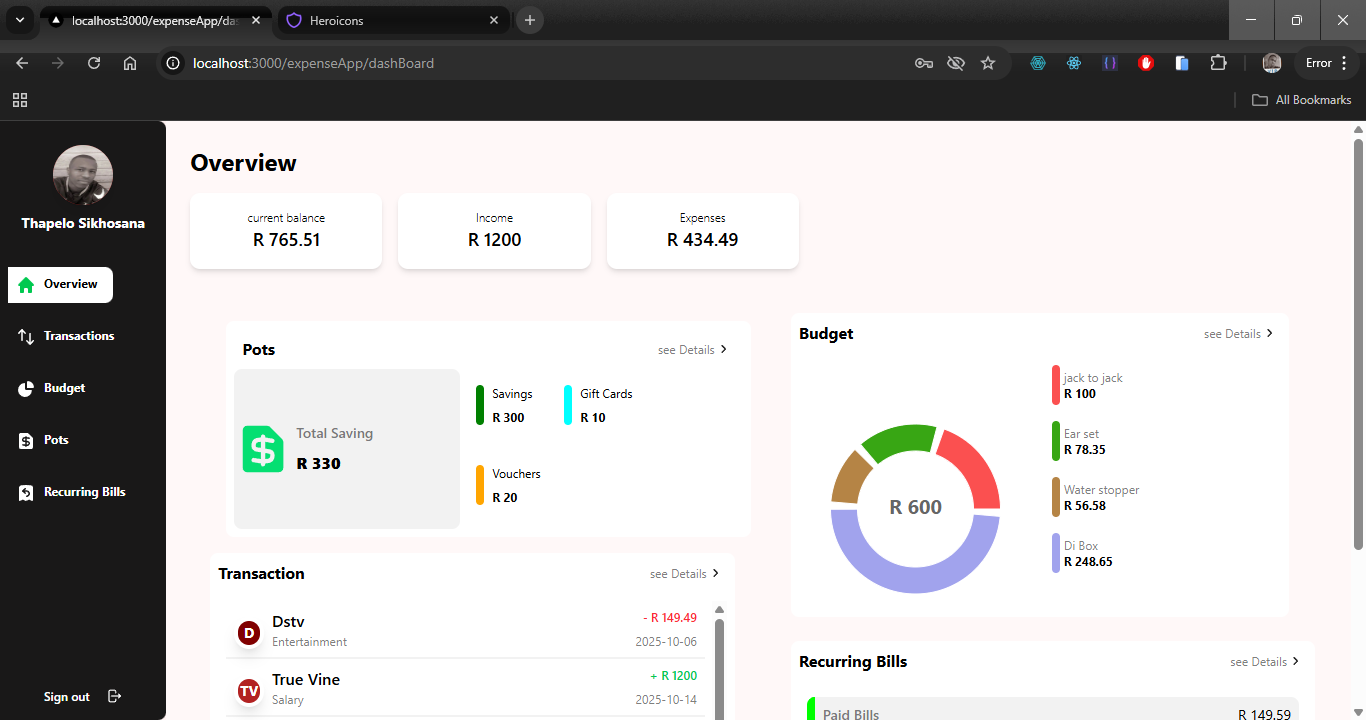
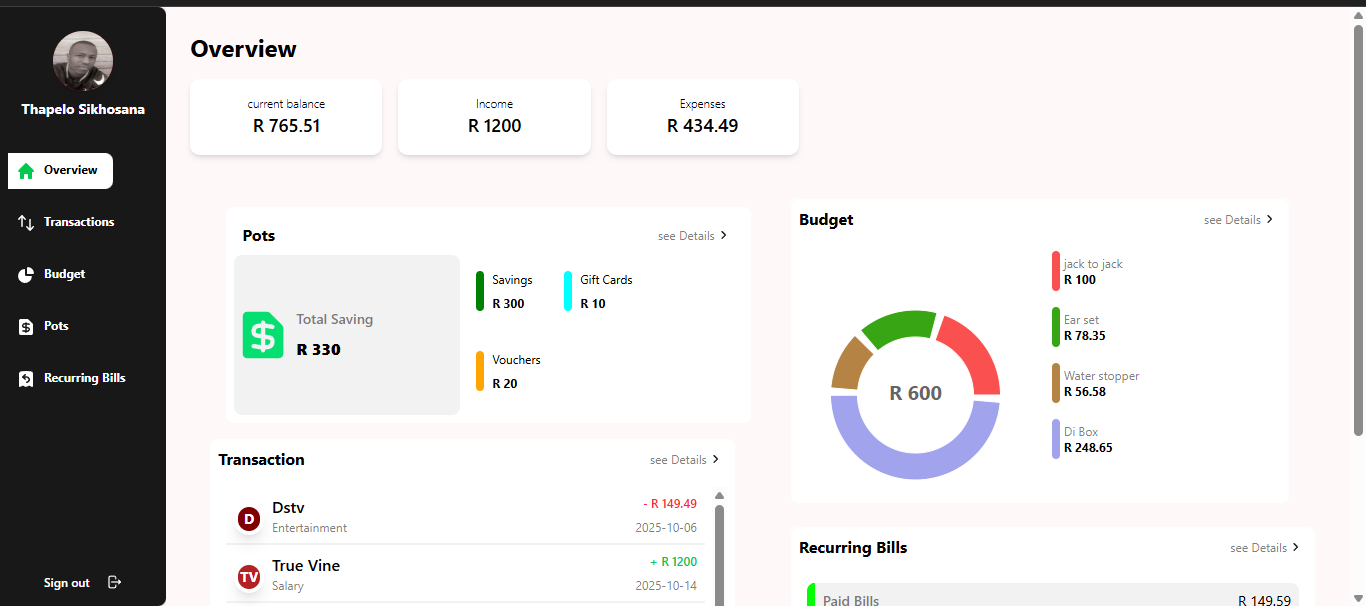
adding new images

diff --git a/src/components/projects/projectCards.tsx b/src/components/projects/projectCards.tsx
@@ -20,76 +20,83 @@ export default function ProjectCard({
   projectDescription,
   projectLink,
   projectItems,
-  projectRevere
+  projectRevere,
 }: PROPS) {
-
   const imageRef = useRef<gsap.core.Timeline | null>(null);
   const headerRef = useRef<gsap.core.Timeline | null>(null);
   const describeRef = useRef<gsap.core.Timeline | null>(null);
 
   const imageElementRef = useRef<HTMLImageElement | null>(null);
-  const paragraphRef = useRef<HTMLParagraphElement>(null)
+  const paragraphRef = useRef<HTMLParagraphElement>(null);
 
   // words animation
-  useGSAP(()=>{
-    gsap.registerPlugin(SplitText)
+  useGSAP(() => {
+    gsap.registerPlugin(SplitText);
 
-    const headerSplitter = SplitText.create(".header-char", {type: "chars"})
-    const describeSplitter = SplitText.create(paragraphRef.current, {type: "words"})
+    const headerSplitter = SplitText.create(".header-char", { type: "chars" });
+    const describeSplitter = SplitText.create(paragraphRef.current, {
+      type: "words",
+    });
 
-    headerRef.current = gsap.timeline({pause: true}).from(headerSplitter.chars, {
-      y: -90,
-      stagger: 0.05,
-      opacity: 0.1,
-      duration: 0.2
-    })
+    headerRef.current = gsap
+      .timeline({ pause: true })
+      .from(headerSplitter.chars, {
+        y: -90,
+        stagger: 0.05,
+        opacity: 0.1,
+        duration: 0.2,
+      });
 
-    describeRef.current = gsap.timeline({pause: true}).from(describeSplitter.words, {
-      opacity: 0.05,
-      stagger: 0.07,
-      duration: 0.05,
-      ease: "sine.inOut"
-    })
+    describeRef.current = gsap
+      .timeline({ pause: true })
+      .from(describeSplitter.words, {
+        opacity: 0.05,
+        stagger: 0.07,
+        duration: 0.05,
+        ease: "sine.inOut",
+      });
 
-    imageRef.current = gsap.timeline({pause: true}).from(imageElementRef.current,{
-      stagger: 0.4,
-      scale: 0.5,
-      opacity: 0.2,
-      duration: 0.5,
-    })
-  })
+    imageRef.current = gsap
+      .timeline({ pause: true })
+      .from(imageElementRef.current, {
+        stagger: 0.4,
+        scale: 0.5,
+        opacity: 0.2,
+        duration: 0.5,
+      });
+  });
 
-  useEffect(()=>{
-  const observerOptions = {
-  root: null,
-  threshold: 1.0
-};
+  useEffect(() => {
+    const observerOptions = {
+      root: null,
+      threshold: 1.0,
+    };
 
-const observer = new IntersectionObserver(([entries]) => {
-  if(!imageRef.current || !headerRef.current || !describeRef.current) return
-  if (entries.isIntersecting && entries.intersectionRatio === 1) {
-    imageRef.current.play()
-    headerRef.current.play()
-    describeRef.current.play()
-  }
-  else {
-    imageRef.current.reverse()
-    headerRef.current.reverse()
-    describeRef.current?.reverse()
-  }
-      
-}, observerOptions);
+    const observer = new IntersectionObserver(([entries]) => {
+      if (!imageRef.current || !headerRef.current || !describeRef.current)
+        return;
+      if (entries.isIntersecting && entries.intersectionRatio === 1) {
+        imageRef.current.play();
+        headerRef.current.play();
+        describeRef.current.play();
+      } else {
+        imageRef.current.reverse();
+        headerRef.current.reverse();
+        describeRef.current?.reverse();
+      }
+    }, observerOptions);
 
-const targetElement = document.getElementById("skills-page")
-if(!targetElement) return
-observer.observe(targetElement);
-  }, [])
+    const targetElement = document.getElementById("skills-page");
+    if (!targetElement) return;
+    observer.observe(targetElement);
+  }, []);
 
   return (
-    <div className={`
+    <div
+      className={`
     flex ${projectRevere ? "flex-col md:flex-row-reverse" : "flex-col md:flex-row"}
-    border-t border-t-[rgba(96,165,250,0.5)] w-[99%] mt-2 bg-black/20 h-auto md:h-90 md:my-15 mx-2 overflow-hidden`}>
-      
+    border-t border-t-[rgba(96,165,250,0.5)] w-[99%] mt-2 bg-black/20 h-auto md:h-90 md:my-15 mx-2 overflow-hidden`}
+    >
       <ProjectImage imageUrl={projectImageUrl} />
 
       <div className="w-full md:w-1/2 h-full py-4 px-2 backdrop:blur-xs overflow-hidden">
@@ -97,9 +104,9 @@ observer.observe(targetElement);
           {projectTitle}
           <span className="text-blue-400"> Application</span>
         </h1>
-        <p 
-        ref={paragraphRef}
-        className="describe text-white/40">{projectDescription}</p>
+        <p ref={paragraphRef} className="describe text-white/40">
+          {projectDescription}
+        </p>
 
         <hr className="border-t border-blue-400 my-6" />
 
@@ -109,11 +116,14 @@ observer.observe(targetElement);
           className="p-2 m-4 px-8 w-fit bg-[rgba(96,165,250,0.5)] border-2 border-white text-white rounded-2xl cursor-pointer"
           style={{
             boxShadow:
-            "inset 2px 2px 2px black, 1px 2px 9px black, 1px 2px 15px rgba(96,165,250,0.5)",
+              "inset 2px 2px 2px black, 1px 2px 9px black, 1px 2px 15px rgba(96,165,250,0.5)",
             textShadow: "1px 1px 2px black",
           }}
         >
+          <a href={projectLink} target="_blank">
+
           Link
+          </a>
         </button>
       </div>
     </div>

diff --git a/src/components/projects/webApplication.tsx b/src/components/projects/webApplication.tsx
@@ -21,20 +21,20 @@ export default function WebApplications() {
       </h1>
 
       <ProjectCard
-        projectImageUrl={publicAsset("Projects/Weather.png")}
-        projectTitle="Weather"
-        projectDescription="A sleek, real-time weather application built with React and Tailwind CSS. It delivers instant, hyper-local forecasts, responsive radar visuals, and accurate 7-day climate insights through a clean, modern interface."
-        projectLink=""
-        projectItems={frameWorks}
+        projectImageUrl={publicAsset("Projects/financial-tracker.png")}
+        projectTitle="Financial Tracker"
+        projectDescription="Financial tracker is a personal finance app that helps you take control of your money by tracking your income and expenses in one simple place. Easily log your earnings, record daily spending, and categorize transactions to see exactly where your money goes. With clear charts, monthly summaries, and budget insights, FinanceFlow shows you how much you're saving—or overspending—so you can make smarter financial decisions and reach your goals faster."
+        projectLink="https://financila-tracker.netlify.app"
+        projectItems={framesWork}
         projectRevere={true}
       />
 
       <ProjectCard
-        projectImageUrl={publicAsset("Projects/clothing-store demo.png")}
-        projectTitle="Clothing Store"
+        projectImageUrl={publicAsset("Projects/Weather.png")}
+        projectTitle="Weather"
         projectDescription="A sleek, real-time weather application built with React and Tailwind CSS. It delivers instant, hyper-local forecasts, responsive radar visuals, and accurate 7-day climate insights through a clean, modern interface."
-        projectLink=""
-        projectItems={framesWork}
+        projectLink="https://thapelo12345.github.io/weather-app/"
+        projectItems={frameWorks}
         projectRevere={false}
       />
     </div>

diff --git a/src/components/mainNav.tsx b/src/components/mainNav.tsx
@@ -26,18 +26,21 @@ export default function MainNav() {
           setHoverStart={setHoverStart}
           setHoverWidth={setHoverwidth}
         />
+
+         <MainNavBtn
+          btnText="Projects"
+          imageUrl={publicAsset("Icon images/settings-icon-14970.png")}
+          setHoverStart={setHoverStart}
+          setHoverWidth={setHoverwidth}
+        />
+        
         <MainNavBtn
           btnText="About"
           imageUrl={publicAsset("Icon images/face-icon-png-4282.png")}
           setHoverStart={setHoverStart}
           setHoverWidth={setHoverwidth}
         />
-        <MainNavBtn
-          btnText="Projects"
-          imageUrl={publicAsset("Icon images/settings-icon-14970.png")}
-          setHoverStart={setHoverStart}
-          setHoverWidth={setHoverwidth}
-        />
+       
         <MainNavBtn
           btnText="Contacts"
           imageUrl={publicAsset("Icon images/book-icon-152.png")}

diff --git a/src/components/mainContainer.tsx b/src/components/mainContainer.tsx
@@ -12,8 +12,8 @@ export default function MainContainer() {
     <div className="main-container custom-scrollbar">
       <MainNav />
       <Header />
-      <About />
       <Skills />
+      <About />
       <Contact />
     </div>
   );
